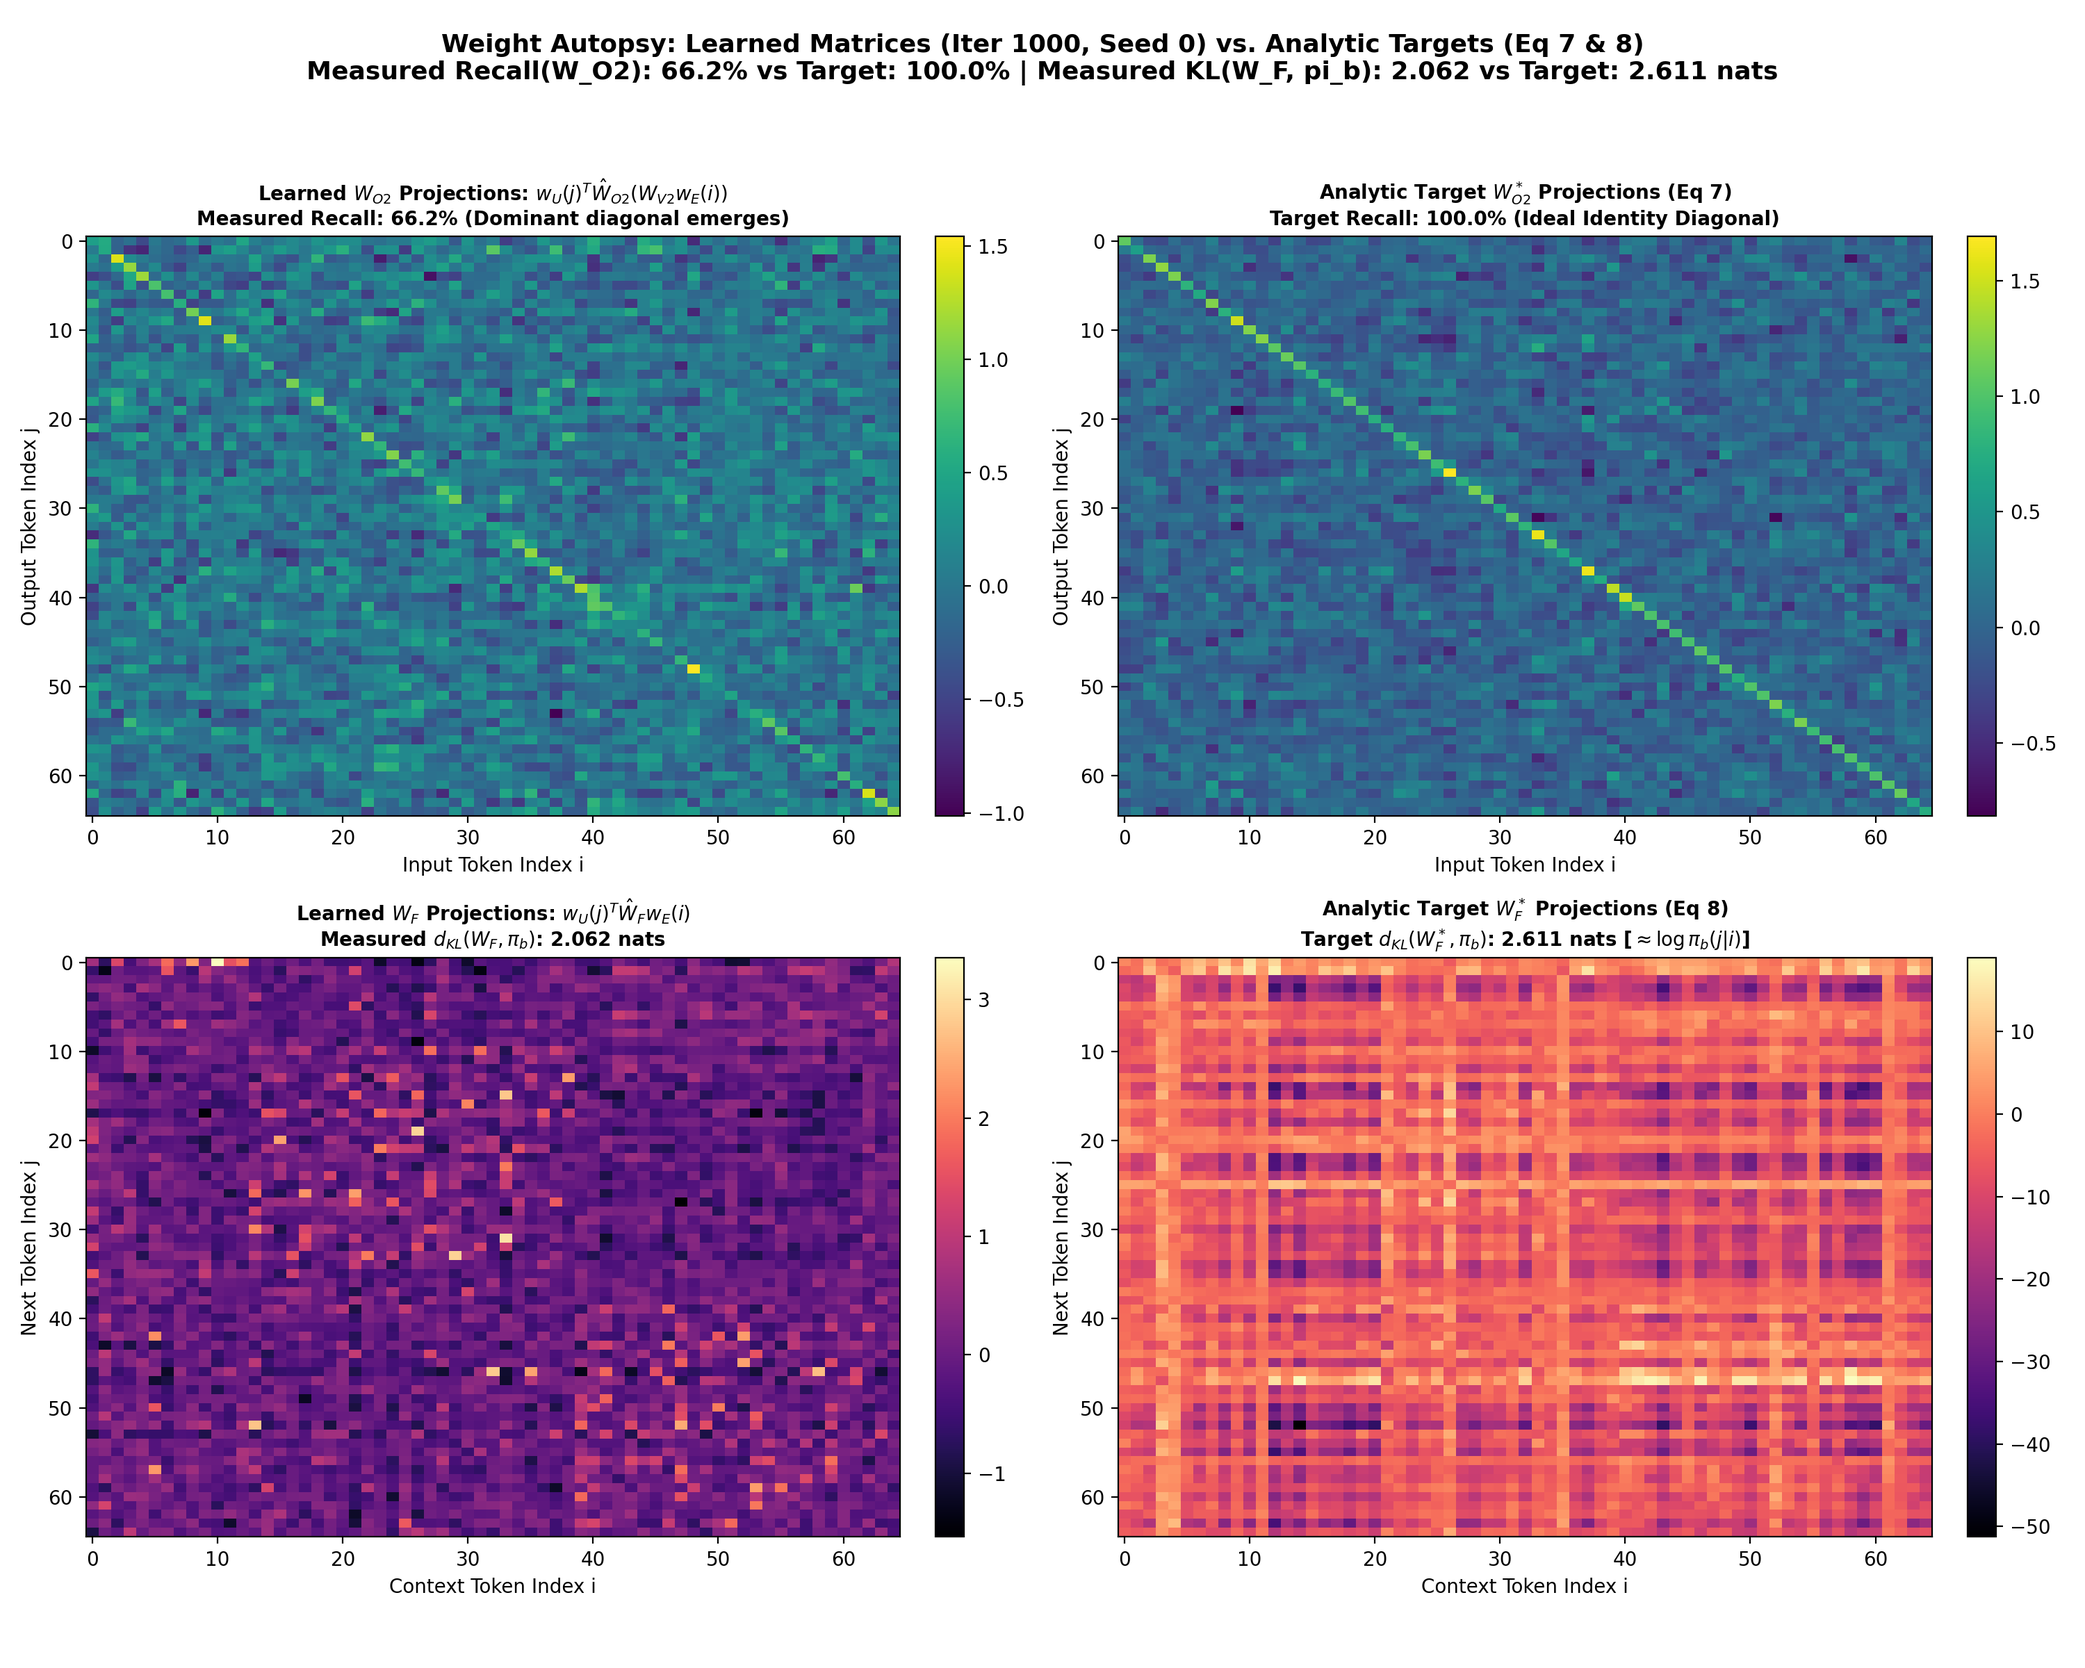
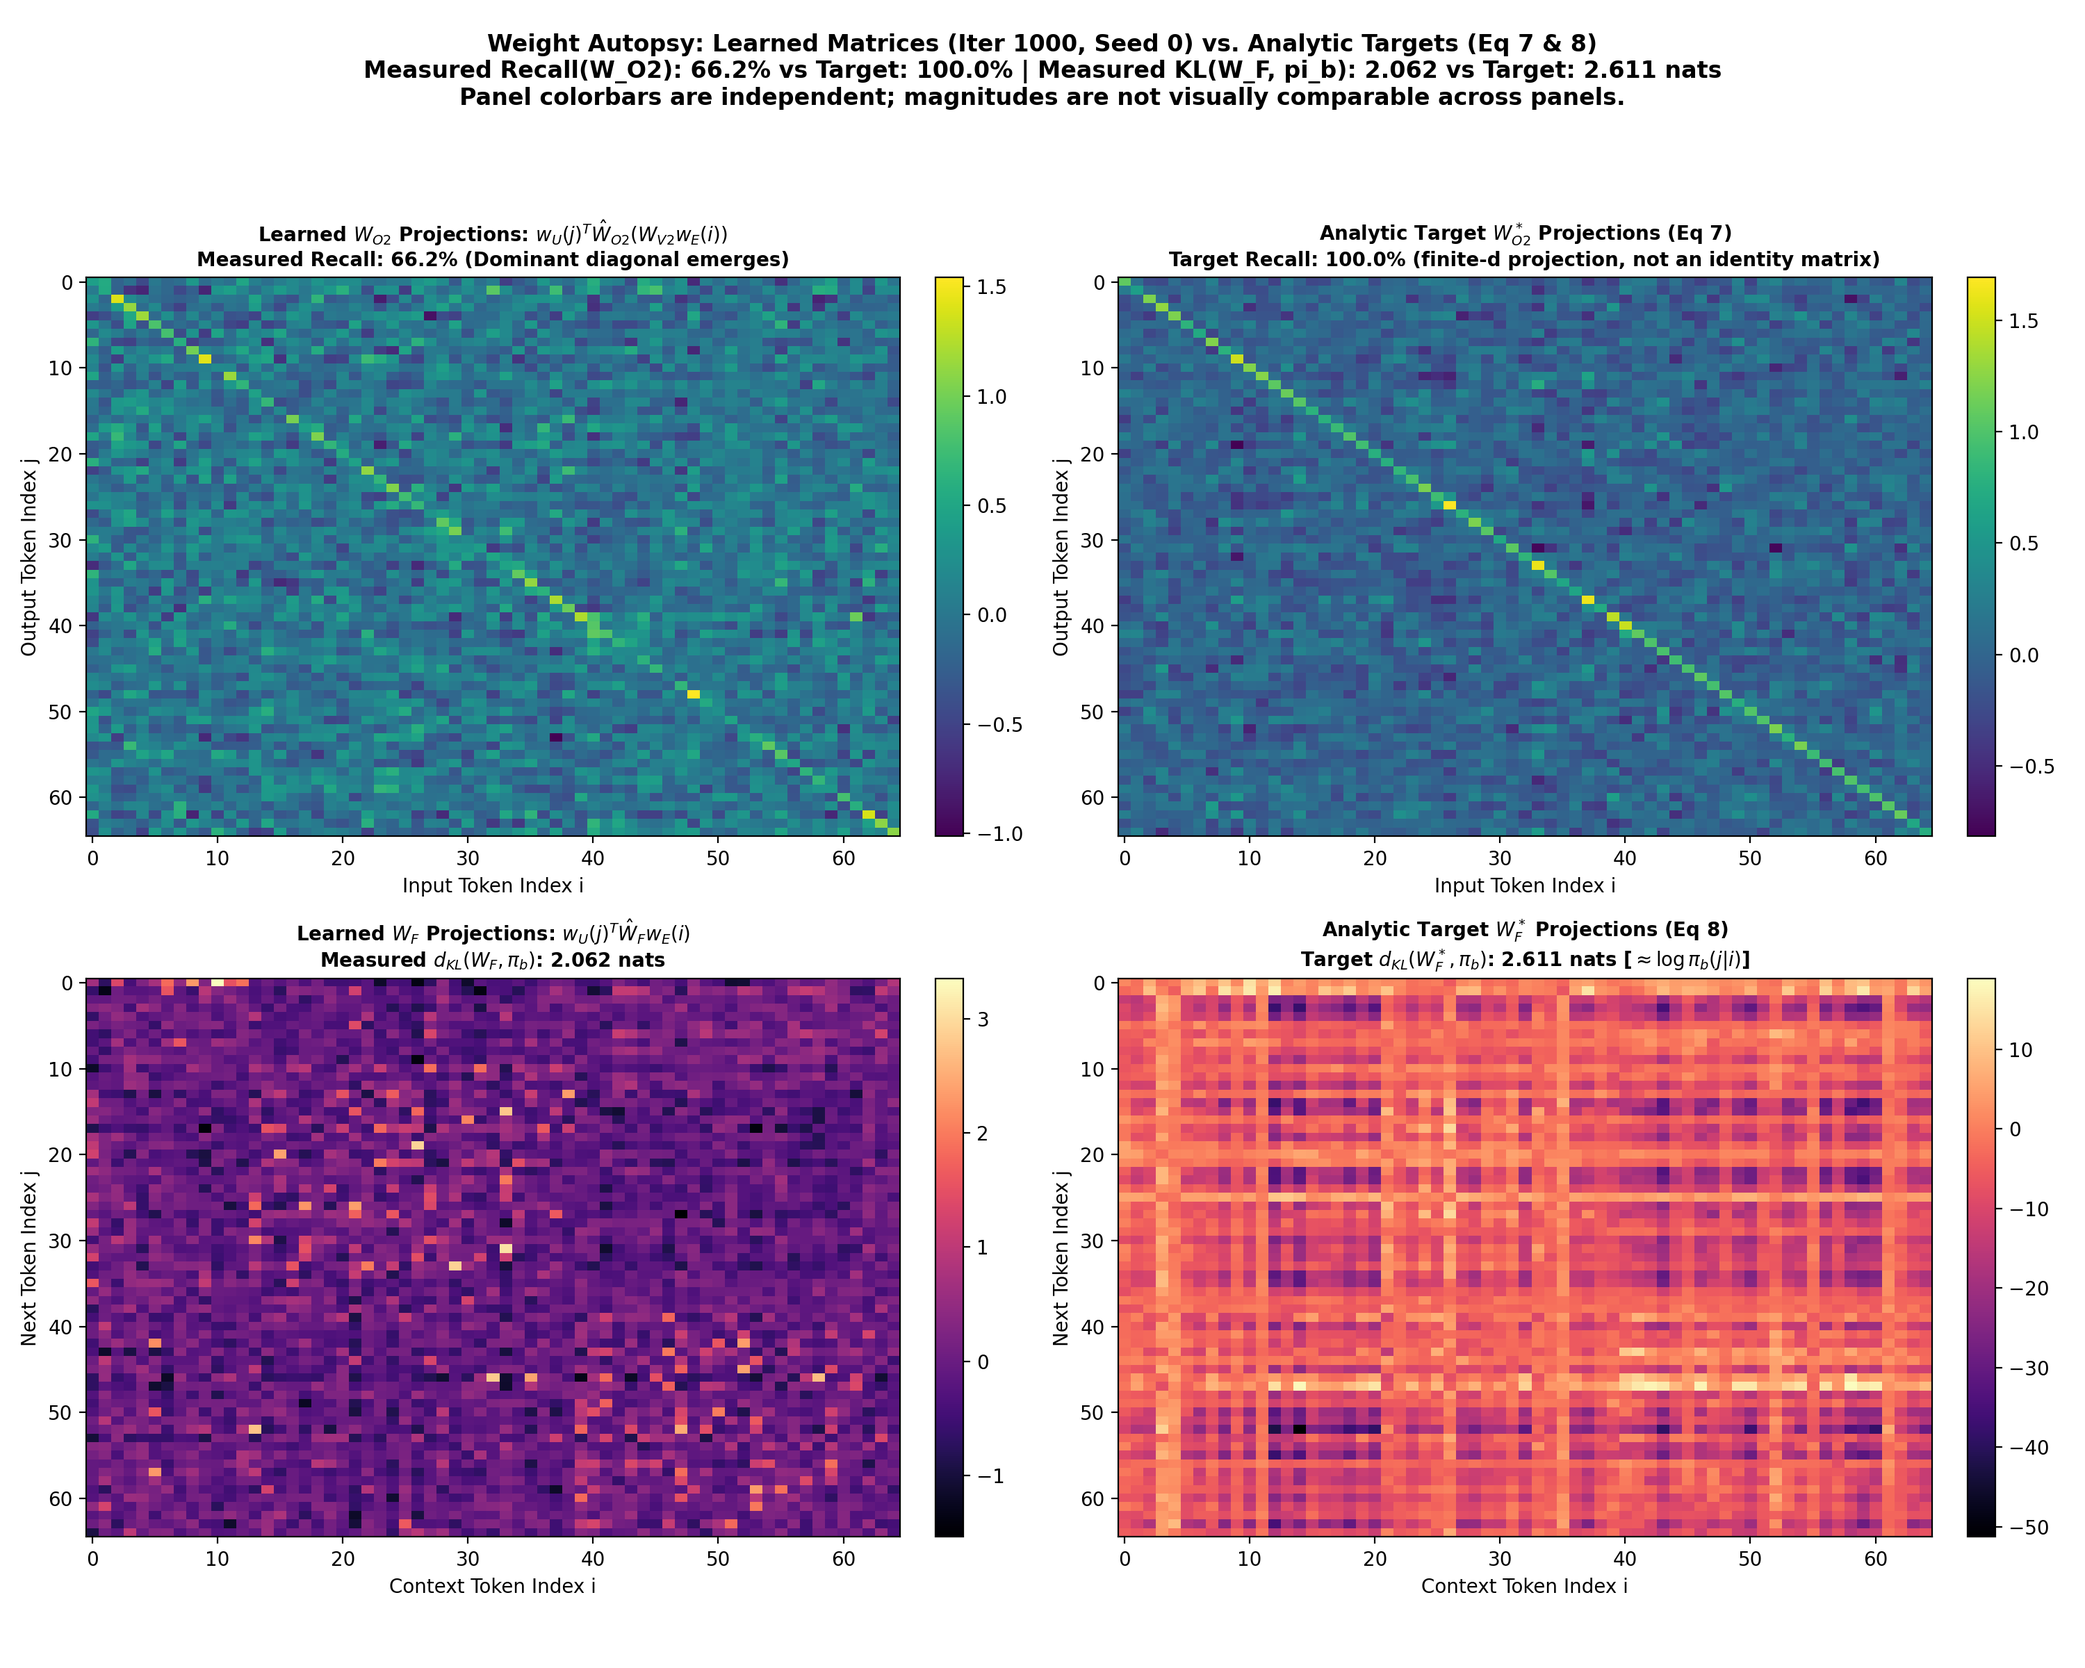
Correct figure labels, fail-closed autopsy guard, reproducible construction diagnostic

diff --git a/src/diagnostic_construction.py b/src/diagnostic_construction.py
@@ -1,0 +1,172 @@
+"""Reproducible Construction Diagnostic for Birth of a Transformer.
+
+Evaluates analytic construction (eq 7 and 8) from build_constructed_solution
+on 200 fresh synthetic sequences (seed 0) across rescale factors r in {1, 3, 10}.
+"""
+
+import json
+import os
+from typing import Dict, Any
+import numpy as np
+import torch
+
+from src.data import load_corpus, get_vocab, estimate_distributions, SyntheticBigramDataset
+from src.model import SimplifiedTransformer, build_constructed_solution
+from src.probes import compute_w_k2_recall, compute_w_o2_recall, compute_w_f_kl
+
+
+def run_diagnostic(
+    seed: int = 0,
+    num_sequences: int = 200,
+    d: int = 128,
+    T: int = 256,
+    K: int = 3,
+    corpus_path: str = "input.txt",
+    output_json_path: str = "results/diagnostic_construction.json",
+) -> Dict[str, Any]:
+    """Execute reproducible construction diagnostic."""
+    # Deterministic seeds
+    torch.manual_seed(seed)
+    np.random.seed(seed)
+
+    text = load_corpus(corpus_path)
+    chars, _, _ = get_vocab(text)
+    pi_u, pi_b = estimate_distributions(text, chars)
+    N = len(chars)
+
+    # 1. Base model at init
+    base_model = SimplifiedTransformer(d=d, N=N, T=T, seed=seed)
+
+    # 2. Evaluation dataset: 200 fresh sequences
+    dataset = SyntheticBigramDataset(pi_u, pi_b, T=T, K=K, seed=seed)
+    batch = dataset.sample_batch(num_sequences)
+    z = batch["seqs"]
+    in_context_mask = batch["in_context_mask"]
+    targets = z[:, 1:]
+    num_eval_tokens = int(in_context_mask.sum().item())
+
+    # Probes on construction (r = 1.0)
+    sol_base = build_constructed_solution(base_model, pi_b, scale_k1=1.0, scale_k2=1.0)
+    recall_k2 = compute_w_k2_recall(sol_base["W_K2"], base_model.w_E, base_model.W_O1, base_model.W_V1)
+    recall_o2 = compute_w_o2_recall(sol_base["W_O2"], base_model.w_E, base_model.w_U, base_model.W_V2)
+    kl_wf = compute_w_f_kl(sol_base["W_F"], base_model.w_E, base_model.w_U, pi_b)
+
+    # 3. Row Group (a): Baseline - model at init with disable_attn=True
+    with torch.no_grad():
+        logits_base, _ = base_model(z, disable_attn=True)
+        preds_base = logits_base[:, :-1, :].argmax(dim=-1)
+        acc_base_init = (preds_base[in_context_mask] == targets[in_context_mask]).float().mean().item()
+
+    # Auxiliary baseline: disable_attn=True with W_F = W_F* (for reference to session 1 Gate B2)
+    model_wf = SimplifiedTransformer(d=d, N=N, T=T, seed=seed)
+    model_wf.W_F.data.copy_(sol_base["W_F"])
+    with torch.no_grad():
+        logits_wf, _ = model_wf(z, disable_attn=True)
+        preds_wf = logits_wf[:, :-1, :].argmax(dim=-1)
+        acc_base_wf = (preds_wf[in_context_mask] == targets[in_context_mask]).float().mean().item()
+
+    rescales = [1.0, 3.0, 10.0]
+
+    # Row Group (b): Full construction (W_K1, W_K2, W_O2, W_F all constructed)
+    full_construction_rows = []
+    for r in rescales:
+        sol_r = build_constructed_solution(base_model, pi_b, scale_k1=r, scale_k2=r)
+        m = SimplifiedTransformer(d=d, N=N, T=T, seed=seed)
+        m.W_K1.data.copy_(sol_r["W_K1"])
+        m.W_K2.data.copy_(sol_r["W_K2"])
+        m.W_O2.data.copy_(sol_r["W_O2"])
+        m.W_F.data.copy_(sol_r["W_F"])
+        with torch.no_grad():
+            logits, _ = m(z, disable_attn=False)
+            preds = logits[:, :-1, :].argmax(dim=-1)
+            acc = (preds[in_context_mask] == targets[in_context_mask]).float().mean().item()
+        full_construction_rows.append({
+            "rescale_factor": int(r),
+            "accuracy": float(acc),
+            "accuracy_pct": float(acc * 100),
+        })
+
+    # Row Group (c): Attention-only (constructed W_K1, W_K2, W_O2 with W_F = 0)
+    attention_only_rows = []
+    for r in rescales:
+        sol_r = build_constructed_solution(base_model, pi_b, scale_k1=r, scale_k2=r)
+        m = SimplifiedTransformer(d=d, N=N, T=T, seed=seed)
+        m.W_K1.data.copy_(sol_r["W_K1"])
+        m.W_K2.data.copy_(sol_r["W_K2"])
+        m.W_O2.data.copy_(sol_r["W_O2"])
+        m.W_F.data.zero_()
+        with torch.no_grad():
+            logits, _ = m(z, disable_attn=False)
+            preds = logits[:, :-1, :].argmax(dim=-1)
+            acc = (preds[in_context_mask] == targets[in_context_mask]).float().mean().item()
+        attention_only_rows.append({
+            "rescale_factor": int(r),
+            "accuracy": float(acc),
+            "accuracy_pct": float(acc * 100),
+        })
+
+    results = {
+        "config": {
+            "seed": seed,
+            "num_sequences": num_sequences,
+            "sequence_length_T": T,
+            "trigger_count_K": K,
+            "dimension_d": d,
+            "vocab_size_N": N,
+            "pi_o": "uniform",
+            "rescale_definition": "Rescale factor r multiplies W_K1 and W_K2 via scale_k1 and scale_k2",
+        },
+        "evaluated_tokens": num_eval_tokens,
+        "probes": {
+            "recall_W_K2_star": float(recall_k2),
+            "recall_W_O2_star": float(recall_o2),
+            "kl_W_F_star": float(kl_wf),
+        },
+        "baseline_init": {
+            "description": "Model at init with disable_attn=True (no construction applied)",
+            "accuracy": float(acc_base_init),
+            "accuracy_pct": float(acc_base_init * 100),
+        },
+        "baseline_wf_star": {
+            "description": "Analytic W_F* with disable_attn=True (session 1 reference)",
+            "accuracy": float(acc_base_wf),
+            "accuracy_pct": float(acc_base_wf * 100),
+        },
+        "full_construction": full_construction_rows,
+        "attention_only": attention_only_rows,
+    }
+
+    # Save to results/diagnostic_construction.json
+    if output_json_path:
+        os.makedirs(os.path.dirname(output_json_path), exist_ok=True)
+        with open(output_json_path, "w", encoding="utf-8") as f:
+            json.dump(results, f, indent=2)
+        print(f"Saved results to {output_json_path}")
+
+    # Print table to stdout
+    print("\n" + "=" * 70)
+    print("CONSTRUCTION DIAGNOSTIC TABLE (Seed 0, 200 sequences)")
+    print(f"Evaluated Tokens: {num_eval_tokens} (triggers at >= 2nd occurrence)")
+    print("=" * 70)
+    print(f"(a) Baseline (Init, Attention Disabled):           {acc_base_init*100:6.2f}%")
+    print(f"    [Auxiliary Baseline: W_F* Attention Disabled]:  {acc_base_wf*100:6.2f}%")
+    print("-" * 70)
+    print("(b) Full Construction (W_K1, W_K2, W_O2, W_F; r multiplies W_K1, W_K2):")
+    for row in full_construction_rows:
+        print(f"    Rescale r = {row['rescale_factor']:2d}:                                {row['accuracy_pct']:6.2f}%")
+    print("-" * 70)
+    print("(c) Attention-Only (W_K1, W_K2, W_O2 constructed; W_F = 0):")
+    for row in attention_only_rows:
+        print(f"    Rescale r = {row['rescale_factor']:2d}:                                {row['accuracy_pct']:6.2f}%")
+    print("=" * 70)
+    print("Construction Probes:")
+    print(f"  R(W_K2*, target): {recall_k2*100:6.2f}%")
+    print(f"  R(W_O2*, target): {recall_o2*100:6.2f}%")
+    print(f"  d_KL(W_F*, pi_b): {kl_wf:6.4f} nats")
+    print("=" * 70 + "\n")
+
+    return results
+
+
+if __name__ == "__main__":
+    run_diagnostic()

diff --git a/src/figures.py b/src/figures.py
@@ -101,14 +101,13 @@ def plot_milestones(
     ax.text(
         0.55, 0.75,
         f"Measured Final KL: {data['kl_W_F'][-1]:.3f} nats\n"
-        f"Paper Plateau: ~2.07 nats\n"
-        f"(Rapid learning in <= 50 iters)",
+        f"Paper Plateau: ~2.07 nats",
         transform=ax.transAxes,
         fontsize=9,
         bbox=dict(boxstyle="round,pad=0.3", fc="white", ec="gray", alpha=0.8),
     )
 
-    plt.tight_layout(rect=[0, 0.03, 1, 0.95])
+    plt.tight_layout(rect=[0, 0.03, 1, 0.94])
     os.makedirs(os.path.dirname(out_path), exist_ok=True)
     plt.savefig(out_path, dpi=200)
     plt.close()
@@ -127,14 +126,13 @@ def plot_autopsy(
     d = 128
     T = 256
 
+    if not os.path.exists(checkpoint_path):
+        raise FileNotFoundError(f"Checkpoint not found at '{checkpoint_path}'. Cannot plot autopsy from untrained weights.")
+
     model = SimplifiedTransformer(d=d, N=N, T=T, seed=0)
-    if os.path.exists(checkpoint_path):
-        ckpt = torch.load(checkpoint_path, map_location="cpu")
-        model.load_state_dict(ckpt["model_state_dict"])
-        step = ckpt.get("step", 1000)
-    else:
-        print(f"Warning: {checkpoint_path} not found; using current model parameters.")
-        step = 0
+    ckpt = torch.load(checkpoint_path, map_location="cpu")
+    model.load_state_dict(ckpt["model_state_dict"])
+    step = ckpt.get("step", 1000)
 
     sol = build_constructed_solution(model, pi_b)
 
@@ -167,8 +165,9 @@ def plot_autopsy(
     fig.suptitle(
         f"Weight Autopsy: Learned Matrices (Iter {step}, Seed 0) vs. Analytic Targets (Eq 7 & 8)\n"
         f"Measured Recall(W_O2): {recall_wo2_learned*100:.1f}% vs Target: {recall_wo2_target*100:.1f}% | "
-        f"Measured KL(W_F, pi_b): {kl_wf_learned:.3f} vs Target: {kl_wf_target:.3f} nats",
-        fontsize=13,
+        f"Measured KL(W_F, pi_b): {kl_wf_learned:.3f} vs Target: {kl_wf_target:.3f} nats\n"
+        "Panel colorbars are independent; magnitudes are not visually comparable across panels.",
+        fontsize=12,
         fontweight="bold",
         y=0.98,
     )
@@ -189,7 +188,7 @@ def plot_autopsy(
     im1 = axes[0, 1].imshow(M_wo2_target, cmap="viridis", aspect="auto")
     axes[0, 1].set_title(
         f"Analytic Target $W_{{O2}}^*$ Projections (Eq 7)\n"
-        f"Target Recall: {recall_wo2_target*100:.1f}% (Ideal Identity Diagonal)",
+        f"Target Recall: {recall_wo2_target*100:.1f}% (finite-d projection, not an identity matrix)",
         fontweight="bold",
         fontsize=10,
     )
@@ -221,7 +220,7 @@ def plot_autopsy(
     axes[1, 1].set_ylabel("Next Token Index j")
     fig.colorbar(im3, ax=axes[1, 1], fraction=0.046, pad=0.04)
 
-    plt.tight_layout(rect=[0, 0.03, 1, 0.95])
+    plt.tight_layout(rect=[0, 0.03, 1, 0.94])
     os.makedirs(os.path.dirname(out_path), exist_ok=True)
     plt.savefig(out_path, dpi=200)
     plt.close()

diff --git a/README.md b/README.md
@@ -51,16 +51,20 @@ All measurements were obtained on local compute using the detected GPU accelerat
 
 ### Gate B2 Construction Diagnostic Table (200 sequences)
 
-Output-token accuracy from second occurrence on analytic Equation 7/8 weights:
+Output-token accuracy from second occurrence on analytic Equation 7/8 weights. Reproducible numbers and full configuration are recorded in [`results/diagnostic_construction.json`](results/diagnostic_construction.json):
 
 | Configuration | Output Accuracy | Evaluated Tokens |
 |---|---|---|
-| Attention Disabled Baseline | 2.04% | 8,182 |
-| Rescaling Factor 1 | 4.25% | 8,182 |
-| Rescaling Factor 3 | 4.49% | 8,182 |
-| Rescaling Factor 10 | 5.00% | 8,182 |
+| (a) Baseline (Init, Attention Disabled) | 1.28% | 8,182 |
+| *[Auxiliary Baseline: $W_F^*$ Attention Disabled]* | *2.04%* | *8,182* |
+| (b) Full Construction (Rescaling Factor 1) | 4.25% | 8,182 |
+| (b) Full Construction (Rescaling Factor 3) | 4.49% | 8,182 |
+| (b) Full Construction (Rescaling Factor 10) | 5.00% | 8,182 |
+| (c) Attention-Only ($W_F = 0$, Rescaling Factor 1) | 29.47% | 8,182 |
+| (c) Attention-Only ($W_F = 0$, Rescaling Factor 3) | 41.37% | 8,182 |
+| (c) Attention-Only ($W_F = 0$, Rescaling Factor 10) | 46.72% | 8,182 |
 
-*(Note: For attention alone without $W_F$, accuracies measure 25.17%, 36.94%, and 47.50% respectively. At $d = 128$, cross-talk from random-embedding inner products $\sim 1/\sqrt{d}$ across $N = 65$ and $T = 256$ interacts with the unnormalized log-probability scale of $W_F$.)*
+*(Note: These are finite-$d$ construction diagnostic numbers. At $d = 128$, cross-talk from random-embedding inner products $\sim 1/\sqrt{d}$ across $N = 65$ and $T = 256$ interacts with the unnormalized log-probability scale of $W_F$. Detailed metrics and probes on the construction are stored in `results/diagnostic_construction.json`.)*
 
 ## Explicit Predeclared Deviations & Recorded Choices
 
@@ -97,8 +101,11 @@ Output-token accuracy from second occurrence on analytic Equation 7/8 weights:
 ├── figures/
 │   ├── milestones.png         # Losses, accuracy, and probe curves
 │   └── autopsy.png            # Weight autopsy heatmaps vs Eq 7/8 targets
+├── results/
+│   └── diagnostic_construction.json # Reproducible construction diagnostic data
 ├── src/
 │   ├── data.py                # Corpus loading, Laplace smoothing, batch generator
+│   ├── diagnostic_construction.py # Reproducible construction evaluation script
 │   ├── model.py               # SimplifiedTransformer and analytic construction
 │   ├── probes.py              # Eq 9 recall probes and Eq 10 KL probe
 │   ├── train.py               # Pilot and 1000-step training loop
@@ -124,10 +131,13 @@ PYTHONPATH=. python3 src/train.py --pilot
 # 3. Run Main Training Run (1000 iterations, seed 0)
 PYTHONPATH=. python3 src/train.py --main --seed 0 --iters 1000 --batch-size 512
 
-# 4. Regenerate milestones figure
+# 4. Run Reproducible Construction Diagnostic
+PYTHONPATH=. python3 src/diagnostic_construction.py
+
+# 5. Regenerate milestones figure
 PYTHONPATH=. python3 src/figures.py --milestones
 
-# 5. Regenerate autopsy figure
+# 6. Regenerate autopsy figure
 PYTHONPATH=. python3 src/figures.py --autopsy
 ```
 
